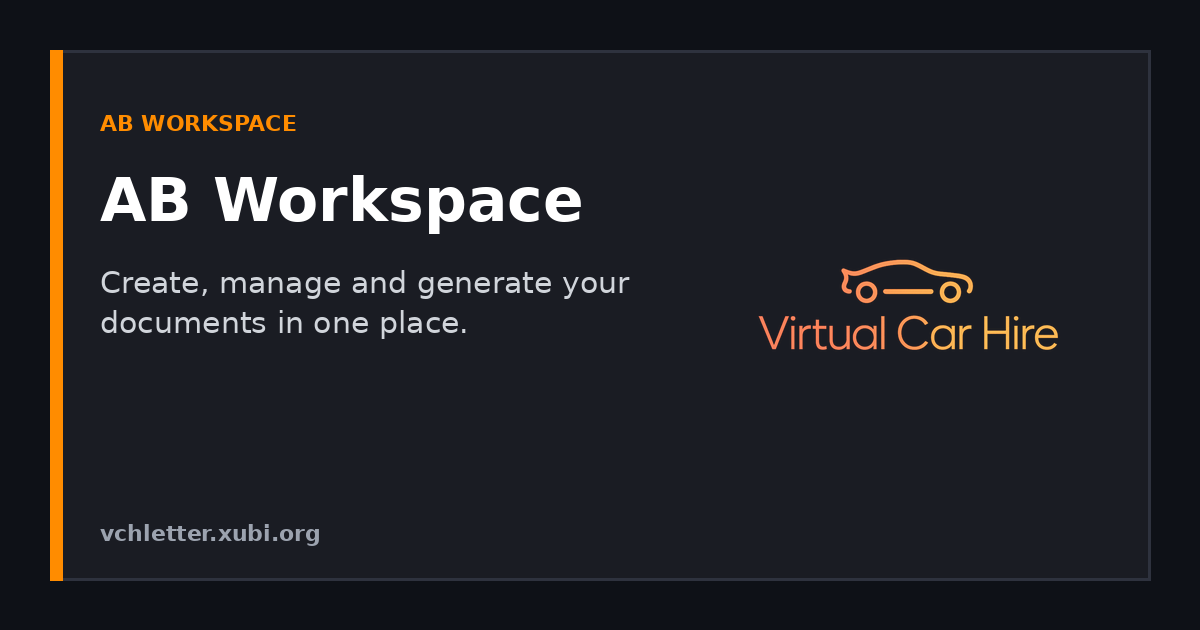
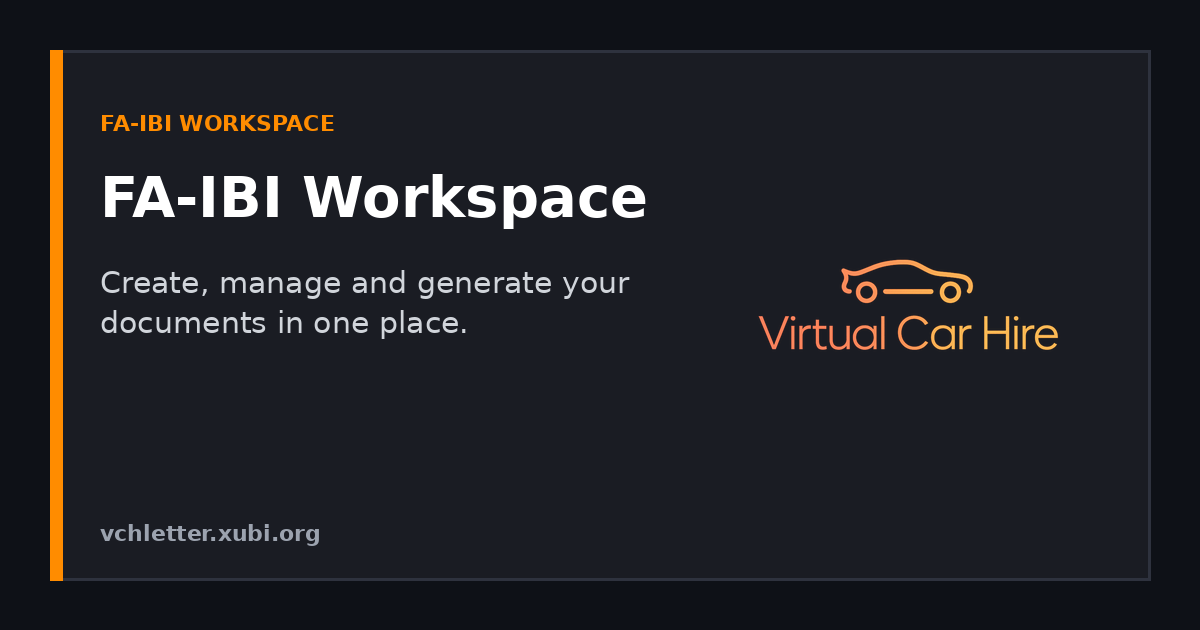
Update workspace branding title and social preview to FA-IBI Workspace
- Renamed workspace title and social preview metadata to FA-IBI Workspace.
- Updated social preview card image (src/ab_workspace_social.png) to display 'FA-IBI Workspace'.
- Verified pytest suite passes with 36 passing tests.

Changed region(s): [[0.0617, 0.2714, 0.555, 0.3619], [0.0617, 0.181, 0.2775, 0.2111]]

diff --git a/src/streamlit_app.py b/src/streamlit_app.py
@@ -320,20 +320,19 @@ def _inject_index_meta_tags():
             with open(index_path, "r", encoding="utf-8") as f:
                 content = f.read()
             og_meta = (
-                '<meta property="og:title" content="AB Workspace" />\n'
-                '<meta property="og:description" content="AB Workspace — Create, manage and generate your documents in one place." />\n'
+                '<meta property="og:title" content="FA-IBI Workspace" />\n'
+                '<meta property="og:description" content="FA-IBI Workspace — Create, manage and generate your documents in one place." />\n'
                 f'<meta property="og:image" content="{SOCIAL_PREVIEW_IMG_URL}" />\n'
                 f'<meta property="og:url" content="{PUBLIC_APP_URL}" />\n'
                 '<meta property="og:type" content="website" />\n'
                 '<meta name="twitter:card" content="summary_large_image" />\n'
-                '<meta name="twitter:title" content="AB Workspace" />\n'
-                '<meta name="twitter:description" content="AB Workspace — Create, manage and generate your documents in one place." />\n'
+                '<meta name="twitter:title" content="FA-IBI Workspace" />\n'
+                '<meta name="twitter:description" content="FA-IBI Workspace — Create, manage and generate your documents in one place." />\n'
                 f'<meta name="twitter:image" content="{SOCIAL_PREVIEW_IMG_URL}" />\n'
             )
-            if 'property="og:title"' not in content:
-                content = content.replace("<head>", f"<head>\n{og_meta}")
-                with open(index_path, "w", encoding="utf-8") as f:
-                    f.write(content)
+            content = content.replace("<head>", f"<head>\n{og_meta}")
+            with open(index_path, "w", encoding="utf-8") as f:
+                f.write(content)
     except Exception:
         pass
 
@@ -343,7 +342,7 @@ _inject_index_meta_tags()
 #  STREAMLIT CONFIGURATION & BRAND HIDING
 # ─────────────────────────────────────────────
 st.set_page_config(
-    page_title="AB Workspace",
+    page_title="FA-IBI Workspace",
     page_icon=fav_path,
     layout="wide"
 )
@@ -353,7 +352,7 @@ import streamlit.components.v1 as components
 components.html("""
 <script>
 (function() {
-    const desiredTitle = "AB Workspace";
+    const desiredTitle = "FA-IBI Workspace";
     try {
         const pDoc = window.parent.document;
         if (pDoc && pDoc.title !== desiredTitle) {
@@ -375,14 +374,14 @@ components.html("""
 """, height=0, width=0)
 
 st.markdown(f"""
-<meta property="og:title" content="AB Workspace" />
-<meta property="og:description" content="AB Workspace — Create, manage and generate your documents in one place." />
+<meta property="og:title" content="FA-IBI Workspace" />
+<meta property="og:description" content="FA-IBI Workspace — Create, manage and generate your documents in one place." />
 <meta property="og:image" content="{SOCIAL_PREVIEW_IMG_URL}" />
 <meta property="og:url" content="{PUBLIC_APP_URL}" />
 <meta property="og:type" content="website" />
 <meta name="twitter:card" content="summary_large_image" />
-<meta name="twitter:title" content="AB Workspace" />
-<meta name="twitter:description" content="AB Workspace — Create, manage and generate your documents in one place." />
+<meta name="twitter:title" content="FA-IBI Workspace" />
+<meta name="twitter:description" content="FA-IBI Workspace — Create, manage and generate your documents in one place." />
 <meta name="twitter:image" content="{SOCIAL_PREVIEW_IMG_URL}" />
 """, unsafe_allow_html=True)
 
@@ -1484,7 +1483,7 @@ with nav_col1:
     if st.session_state.current_page == "audit":
         st.title("System Audit Logs")
     else:
-        st.title("AB Workspace")
+        st.title("FA-IBI Workspace")
 
 with nav_col2:
     btn_c1, btn_c2 = st.columns(2)

diff --git a/tests/test_app.py b/tests/test_app.py
@@ -618,13 +618,13 @@ def test_ab_workspace_social_image_and_og_metadata():
     with open(streamlit_app.__file__, "r", encoding="utf-8") as f:
         code = f.read()
 
-    assert 'og:title" content="AB Workspace"' in code
-    assert 'og:description" content="AB Workspace — Create, manage and generate your documents in one place."' in code
+    assert 'og:title" content="FA-IBI Workspace"' in code
+    assert 'og:description" content="FA-IBI Workspace — Create, manage and generate your documents in one place."' in code
     assert 'og:image"' in code
     assert 'og:url"' in code
     assert 'https://vchletter.xubi.org' in code
     assert 'twitter:card" content="summary_large_image"' in code
-    assert 'twitter:title" content="AB Workspace"' in code
+    assert 'twitter:title" content="FA-IBI Workspace"' in code
 
 def test_licence_preview_card_bounds_and_aspect_ratio():
     import streamlit_app
